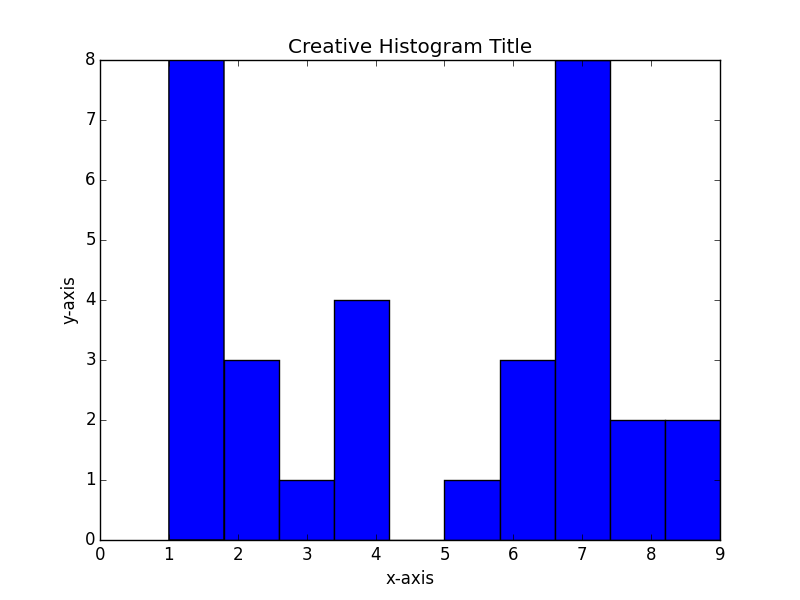
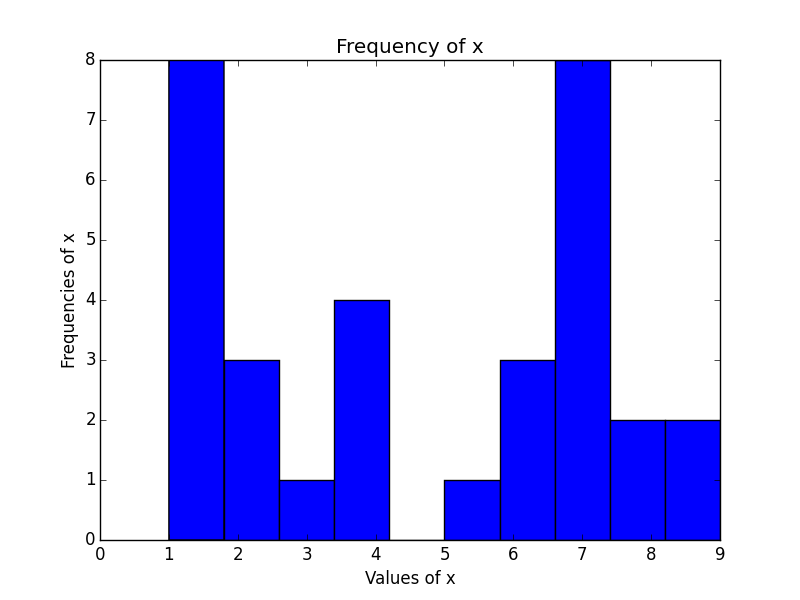
updated plot labels and titles

Changed region(s): [[0.3438, 0.06, 0.6562, 0.09], [0.0625, 0.39, 0.0938, 0.63], [0.4688, 0.93, 0.5625, 0.99]]

diff --git a/Unit2/prob.py b/Unit2/prob.py
@@ -21,22 +21,26 @@ plt.close()
 
 # Create and save boxplot
 bp = plt.boxplot(x)
-plt.xlabel('x-axis')
-plt.ylabel('y-axis')
-plt.title('Creative Boxplot Title')
+plt.xlabel('x')
+plt.ylabel('Values of x')
+plt.title('Distribution of x')
 plt.savefig("prob_boxplot.png")
 plt.close()
 
 # Create and save histogram
 import matplotlib.pyplot as plt
 plt.hist(x, histtype='bar')
-plt.xlabel('x-axis')
-plt.ylabel('y-axis')
-plt.title('Creative Histogram Title')
+plt.xlabel('Values of x')
+plt.ylabel('Frequencies of x')
+plt.title('Frequency of x')
 plt.savefig("prob_hitogram.png")
 plt.close()
 
  # Create and save QQ-Plot
 graph1 = stats.probplot(x, dist="norm", plot=plt)
+# plt.xlabel('x-axis')
+# plt.ylabel('y-axis')
+plt.title('QQ-Plot of X')
 plt.savefig("prob_qqplot.png")
+plt.close()
 
